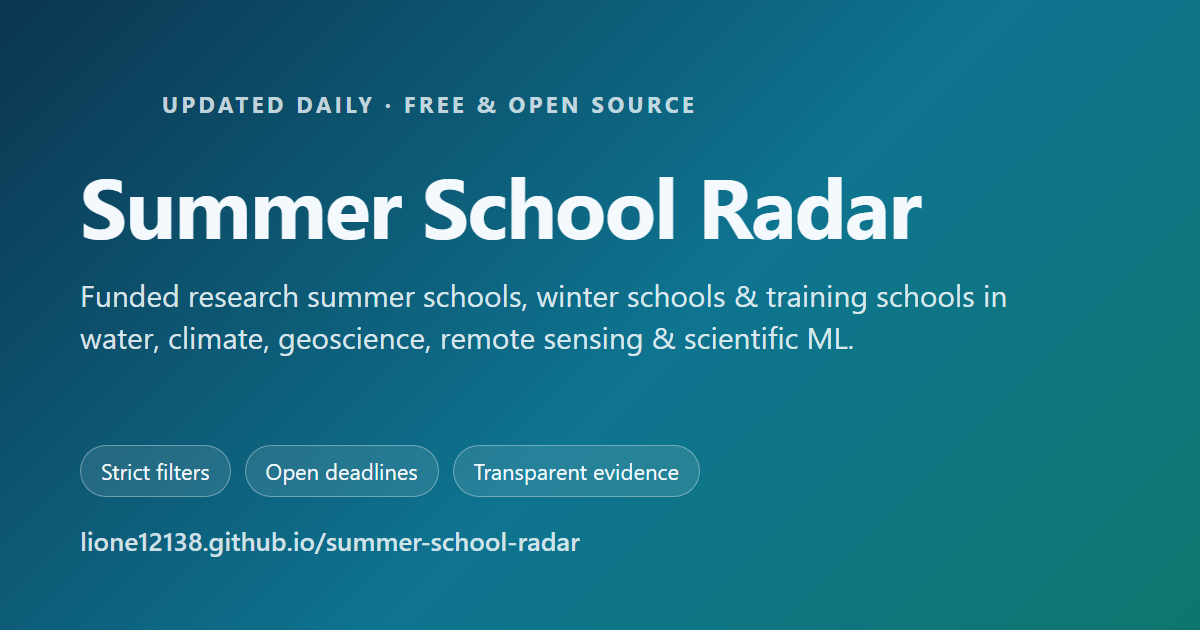
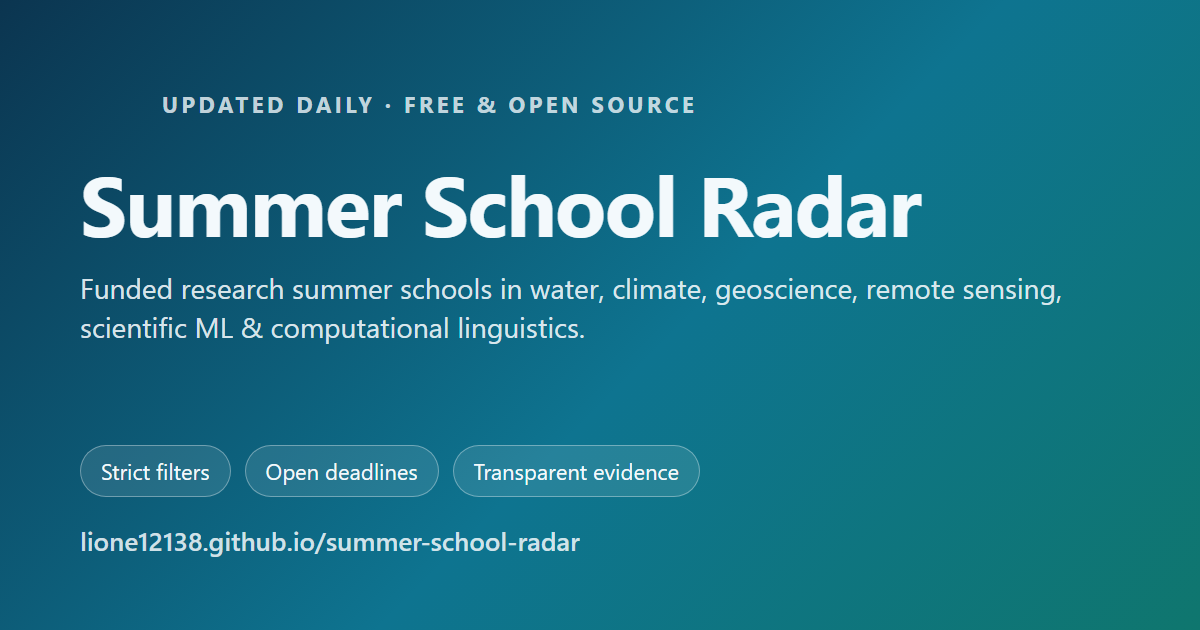
Add language & computational linguistics as a covered domain
- profile.yaml: add academic language topics (linguistics, computational
  linguistics, NLP, phonetics/phonology/syntax/semantics/morphology, corpus
  & psycholinguistics, language documentation). "pure language course" stays
  excluded, so language-teaching courses are still filtered out.
- sources.yaml: add ESSLLI (rendered), LSA Linguistic Institute, LOT School,
  EGG, Leiden Linguistics Summer School, and CLASP Gothenburg.
- Update the public domain copy (site description, hero, about, FAQ, RSS,
  README, OG image) to include computational linguistics.

diff --git a/src/research_school_radar/site.py b/src/research_school_radar/site.py
@@ -35,8 +35,8 @@ _BLOCKED_BOTS = (
 _SITE_DESCRIPTION = (
     "A free daily scanner of trusted academic sources for funded research summer "
     "schools, winter schools, and training schools in water, climate, geoscience, "
-    "remote sensing, and scientific machine learning, with strict filters and "
-    "transparent evidence."
+    "remote sensing, scientific machine learning, and computational linguistics, "
+    "with strict filters and transparent evidence."
 )
 
 
@@ -491,8 +491,8 @@ def render_feed(
         f"    <link>{escape(site_url)}</link>\n"
         f'    <atom:link href="{escape(feed_url)}" rel="self" type="application/rss+xml"/>\n'
         "    <description>Funded research summer schools, winter schools, and training "
-        "schools in water, climate, geoscience, remote sensing, and scientific machine "
-        "learning.</description>\n"
+        "schools in water, climate, geoscience, remote sensing, scientific machine "
+        "learning, and computational linguistics.</description>\n"
         "    <language>en</language>\n"
         f"    <copyright>Data CC BY 4.0 — reuse with attribution and a link back to {escape(site_url)}</copyright>\n"
         "    <generator>Summer School Radar</generator>\n"
@@ -872,7 +872,7 @@ def render_site(
     <div class="wrap">
       <p class="kicker">&#128225; Updated daily &middot; Free &amp; open source</p>
       <h1>Summer School Radar</h1>
-      <p class="subtitle">A free daily scan of trusted academic sources for research summer schools, winter schools, training schools, field schools, and short courses in water, climate, geoscience, remote sensing, and scientific machine learning. Strict filters keep only funded or low-fee, in-person opportunities with an open deadline.</p>
+      <p class="subtitle">A free daily scan of trusted academic sources for research summer schools, winter schools, training schools, field schools, and short courses in water, climate, geoscience, remote sensing, scientific machine learning, and computational linguistics. Strict filters keep only funded or low-fee, in-person opportunities with an open deadline.</p>
       <div class="cta">
         <a class="btn primary" href="#opportunities">Browse opportunities</a>
         {subscribe_cta}
@@ -980,7 +980,7 @@ def _about_section() -> str:
         <h3>What it is</h3>
         <p>Summer School Radar is an open-source, fixed-source scanner with rule-based extraction and transparent per-field evidence &mdash; not a fully automatic, all-web radar. It focuses on a clear domain so the signal stays high.</p>
         <h3>Domains covered</h3>
-        <p>Water and hydrology, climate, geoscience, remote sensing and earth observation, and scientific machine learning.</p>
+        <p>Water and hydrology, climate, geoscience, remote sensing and earth observation, scientific machine learning, and language and computational linguistics.</p>
         <h3>What qualifies</h3>
         <ul class="criteria">
           <li>Funded, or low / no fee &mdash; not an expensive paid course.</li>
@@ -1025,7 +1025,7 @@ def _footer_section(updated: str) -> str:
       <div class="cols">
         <div class="col brandcol">
           <a class="brand" href="#top">{_RADAR_ICON} Summer School Radar</a>
-          <p>A free, open-source scanner for funded research summer schools, winter schools, and training schools in water, climate, geoscience, remote sensing, and scientific machine learning. Updated daily.</p>
+          <p>A free, open-source scanner for funded research summer schools, winter schools, and training schools in water, climate, geoscience, remote sensing, scientific machine learning, and computational linguistics. Updated daily.</p>
         </div>
         <div class="col">
           <h4>Explore</h4>

diff --git a/README.md b/README.md
@@ -4,7 +4,7 @@
 [![License: AGPL v3](https://img.shields.io/badge/Code-AGPL--3.0-blue.svg)](LICENSE)
 [![Data: CC BY 4.0](https://img.shields.io/badge/Data-CC%20BY%204.0-green.svg)](#license--reuse)
 
-An open-source scanner for funded research training opportunities — summer schools, winter schools, training schools, field schools, and short courses — in **water, climate, geoscience, remote sensing, and scientific machine learning**.
+An open-source scanner for funded research training opportunities — summer schools, winter schools, training schools, field schools, and short courses — in **water, climate, geoscience, remote sensing, scientific machine learning, and computational linguistics**.
 
 It is a fixed trusted-source scanner with rule-based extraction and transparent per-field evidence — not a fully automatic all-web radar. It scans a curated registry of trusted academic sources, extracts deadline / funding / fee / duration evidence together with the supporting text, separates fully qualified opportunities from near-matches, and publishes a static website that updates daily for free on GitHub Pages.
 
@@ -17,7 +17,7 @@ It is a fixed trusted-source scanner with rule-based extraction and transparent 
 This section is refreshed automatically by the daily local scan.
 
 <!-- radar:results:start -->
-_Last scan: 2026-06-15 · 0 fully qualified · 5 high-quality opportunities shown_
+_Last scan: 2026-06-16 · 0 fully qualified · 5 high-quality opportunities shown_
 
 **No fully qualified opportunities in the latest scan.** The high-quality opportunities below are open and in scope, but missing a fully confirmed condition.
 
@@ -63,7 +63,7 @@ An opportunity must satisfy all hard conditions:
 | Duration | At least 8 days |
 | Financial access | Explicit funding is available, or the confirmed total fee is no more than approximately EUR 400 |
 | Mode | In-person or substantially on-site, not online-only |
-| Topic | Relevant to water, hydrology, climate, geoscience, remote sensing, environmental modelling, disaster risk, or scientific machine learning |
+| Topic | Relevant to water, hydrology, climate, geoscience, remote sensing, environmental modelling, disaster risk, scientific machine learning, or language and computational linguistics |
 
 Near-matches are never presented as qualified results.
 